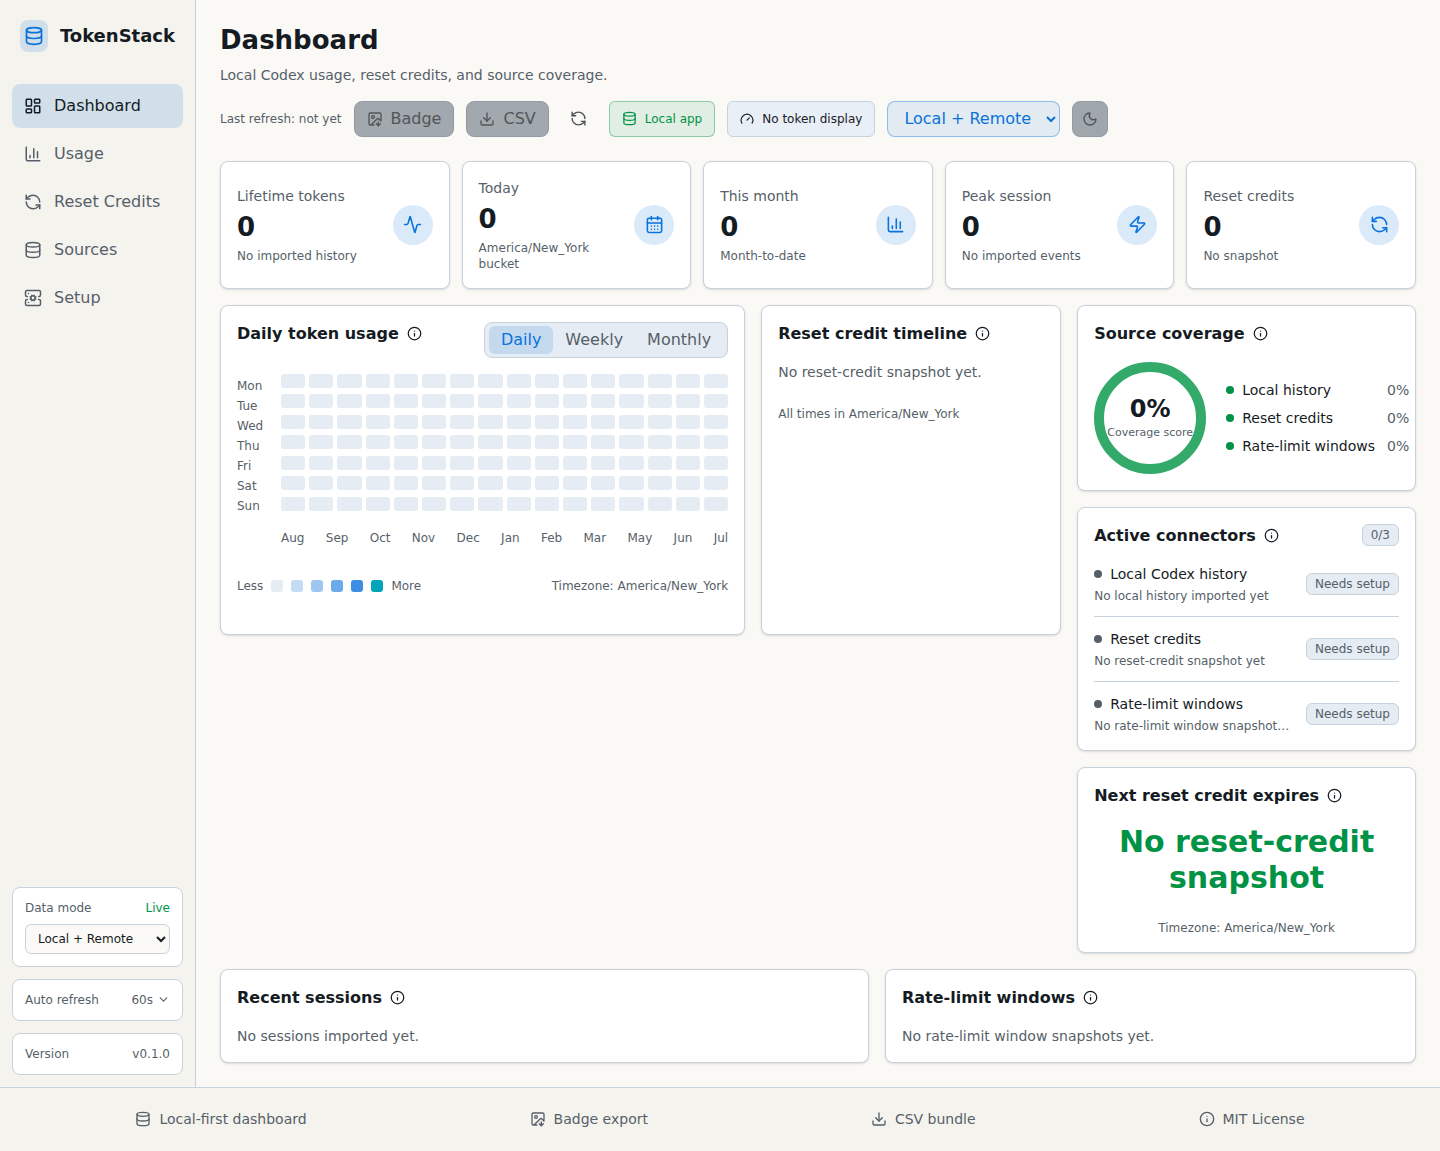
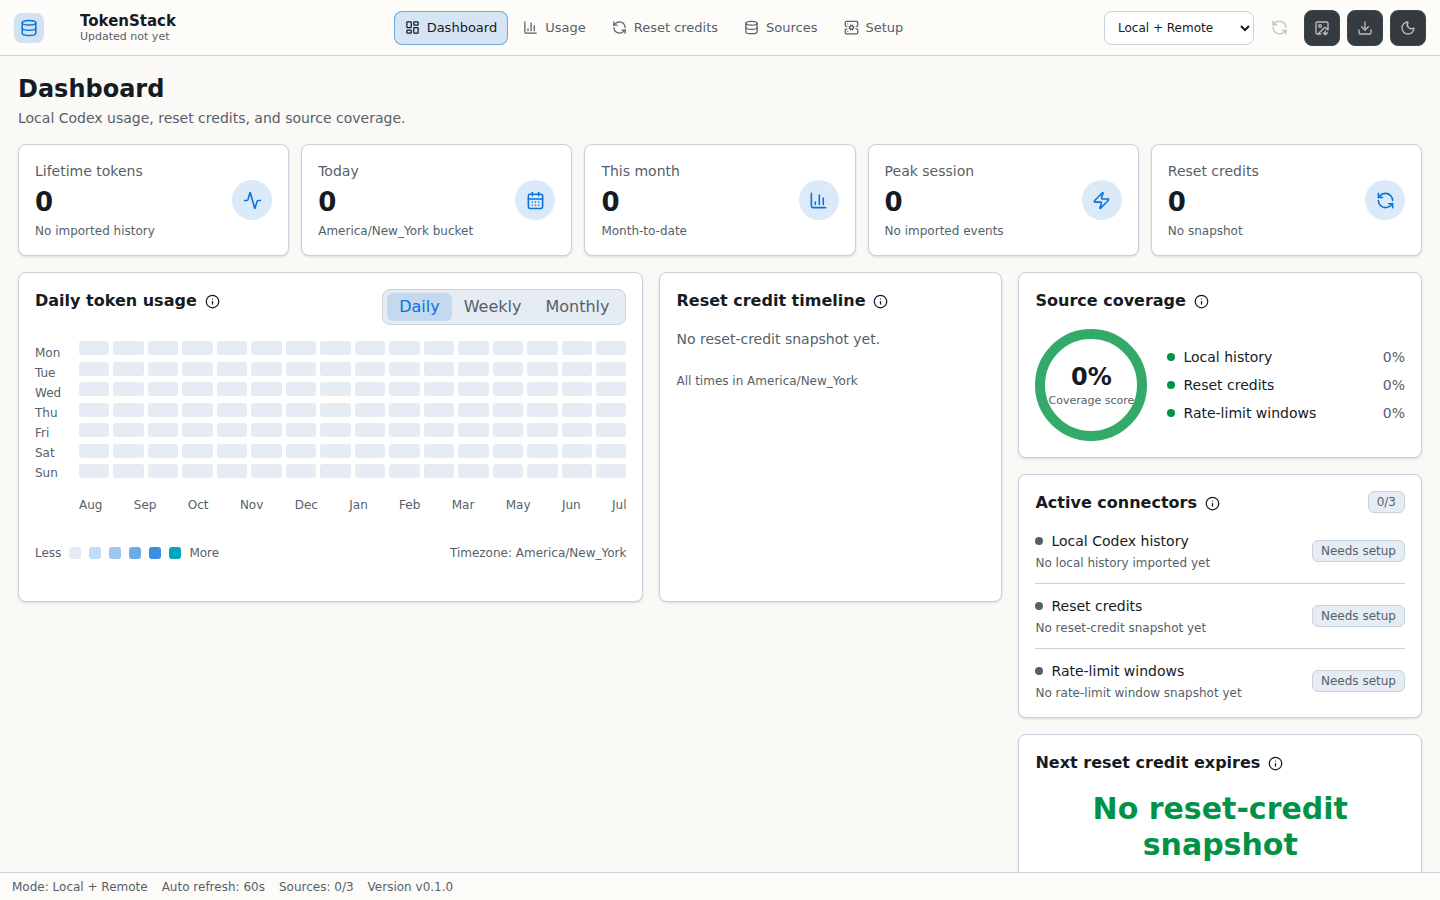
Add viewport QA for native desktop chrome
Constraint: Layout changes require screenshot evidence across desktop and mobile widths.
Rejected: Component tests only | they cannot catch first-viewport polish problems.
Confidence: high
Scope-risk: narrow
Directive: Update screenshots whenever app chrome materially changes.
Tested: pnpm screenshots
Not-tested: Native menu rendering in Playwright, because browser tests cannot inspect OS menus.

diff --git a/tests/e2e/dashboard.spec.ts b/tests/e2e/dashboard.spec.ts
@@ -12,9 +12,28 @@ test("dashboard renders dark and light command center screenshots without consol
 
   await page.goto("/");
   await expect(page.getByRole("heading", { name: "Dashboard" })).toBeVisible();
+  await expect(page.getByRole("toolbar", { name: "TokenStack controls" })).toBeVisible();
+  await expect(page.getByRole("status", { name: "TokenStack status" })).toBeVisible();
+  await expect(page.getByText("Never /consume")).toHaveCount(0);
   await expect(page.getByText("/consume")).toHaveCount(0);
+  await expect(page.getByText("Read-only")).toHaveCount(0);
+  await expect(page.getByText("No token display")).toHaveCount(0);
+  await expect(page.getByText("1.2k")).toHaveCount(0);
+  await expect(page.getByText("John B")).toHaveCount(0);
   await expect(page.getByText("Daily token usage")).toBeVisible();
   await expect(page.getByText("America/New_York").first()).toBeVisible();
+
+  for (const viewport of [
+    { width: 1440, height: 900 },
+    { width: 1024, height: 768 },
+    { width: 390, height: 844 },
+  ]) {
+    await page.setViewportSize(viewport);
+    await expect(page.getByRole("toolbar", { name: "TokenStack controls" })).toBeVisible();
+    await expect(page.getByRole("heading", { name: "Dashboard" })).toBeVisible();
+  }
+
+  await page.setViewportSize({ width: 1440, height: 900 });
   await page.getByRole("button", { name: "Setup" }).click();
   await expect(page.getByRole("heading", { name: "Setup" })).toBeVisible();
   await page.getByRole("button", { name: "Dashboard" }).click();

diff --git a/src/styles.css b/src/styles.css
@@ -75,9 +75,10 @@ select {
 }
 
 .desktop-shell {
-  min-height: 100dvh;
+  height: 100dvh;
   display: grid;
   grid-template-rows: auto minmax(0, 1fr) auto;
+  overflow: hidden;
   background: var(--color-background);
   color: var(--color-foreground);
 }